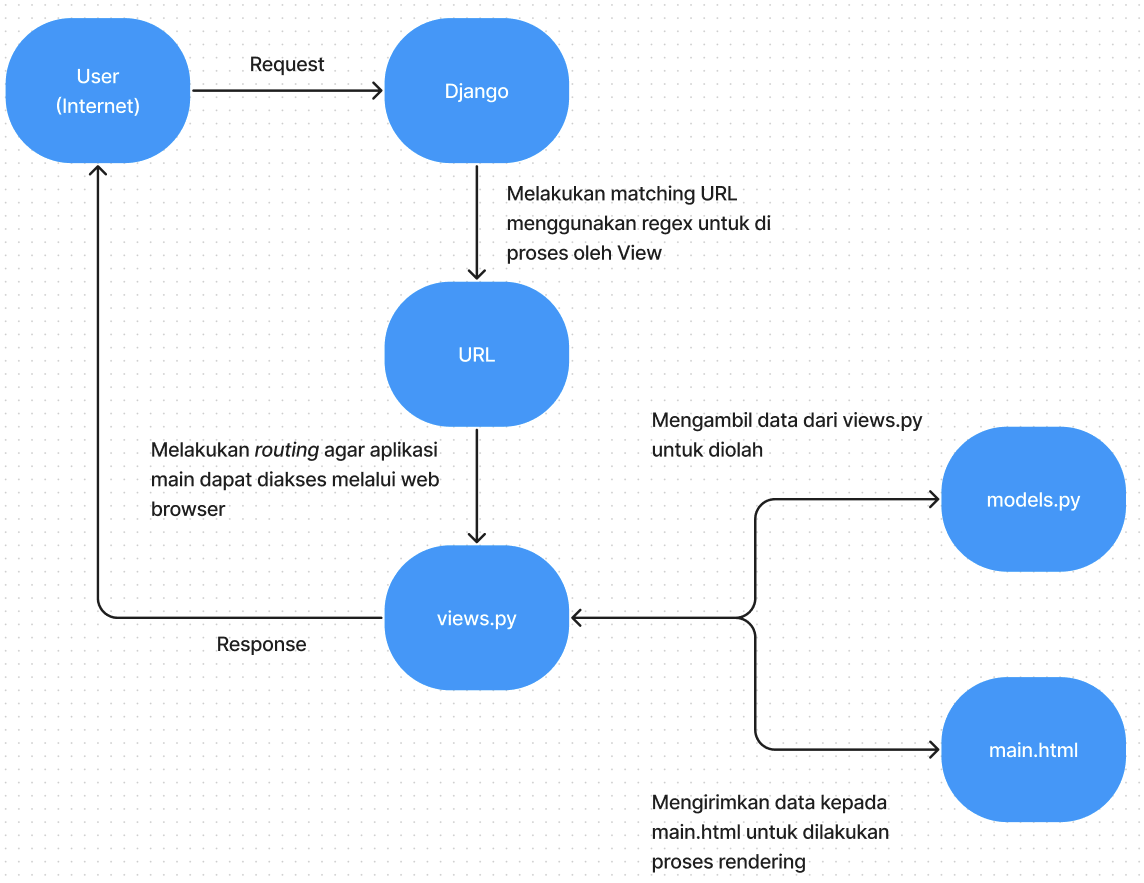
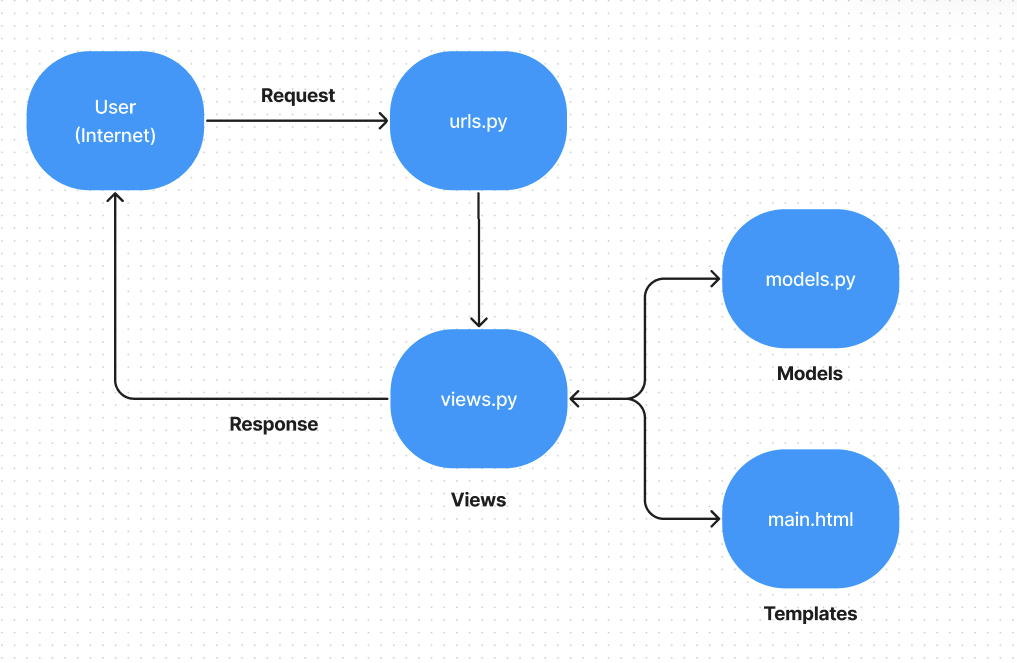
Menambahkan testing yakni menguji kevalidan ddatatypes dari atributes pada models, merevisi jawaban pada README, serta merevisi main.html

Changed region(s): [[0.0, 0.0, 1.0, 0.9955]]

diff --git a/main/templates/main.html b/main/templates/main.html
@@ -1,5 +1,8 @@
 <h1 style="text-align: center; font-family:Verdana">Welcome to {{app}}!</h1>
-<h2 style="text-align: center; font-family:monospace; font-style: italic;">"Your Digital Inventory Maestro!"</h2>
 
-<p style ="font-family: Verdana;">Name: {{name}}</p> <!-- Ubahlah sesuai dengan nama kamu -->
-<p style ="font-family: Verdana;">Class: {{class}}</p> <!-- Ubahlah sesuai dengan kelas kamu -->
+<center><img src=images/lontong.png alt="An image of a lontong" class="center" style="width:200px;height:200px;"></center>
+
+<h2 style="text-align: center; font-family:monospace; font-style: italic; color:lightslategray;">"Your Digital Inventory Maestro!"</h2>
+
+<p style ="font-family: Verdana;">Name: {{name}}</p>
+<p style ="font-family: Verdana;">Class: {{class}}</p>

diff --git a/main/tests.py b/main/tests.py
@@ -1,7 +1,8 @@
-from django.test import TestCase
-
 # Create your tests here.
 from django.test import TestCase, Client
+from main.models import Item
+from datetime import datetime
+
 
 class mainTest(TestCase):
     def test_main_url_is_exist(self):
@@ -11,3 +12,28 @@ class mainTest(TestCase):
     def test_main_using_main_template(self):
         response = Client().get('/main/')
         self.assertTemplateUsed(response, 'main.html')
+
+class ItemTestCase(TestCase):
+    def setUp(self) -> None:
+        Item.objects.create(
+            name = "Galon Aqua", 
+            amount = 5, 
+            description = "Sebuah galon aqua",
+            category = "Minuman",
+            )
+        
+        Item.objects.create(
+            name = "Mangkok", 
+            amount = 10, 
+            description = "Mangkok dengan gambar ayam",
+            category = "Alat makan",
+            )
+        
+    def test_item(self):
+        items = Item.objects.all()
+        for item in items:
+            self.assertIsInstance(getattr(item, 'name'), str)
+            self.assertIsInstance(getattr(item, 'amount'), int)
+            self.assertIsInstance(getattr(item, 'description'), str)
+            self.assertIsInstance(getattr(item, 'category'), str)
+            self.assertIsInstance(getattr(item, 'date_added'), type(datetime.now()))

diff --git a/main/migrations/0002_item_delete_product.py b/main/migrations/0002_item_delete_product.py
@@ -1,0 +1,27 @@
+# Generated by Django 4.2.5 on 2023-09-12 14:03
+
+from django.db import migrations, models
+
+
+class Migration(migrations.Migration):
+
+    dependencies = [
+        ('main', '0001_initial'),
+    ]
+
+    operations = [
+        migrations.CreateModel(
+            name='Item',
+            fields=[
+                ('id', models.BigAutoField(auto_created=True, primary_key=True, serialize=False, verbose_name='ID')),
+                ('name', models.CharField(max_length=255)),
+                ('amount', models.IntegerField()),
+                ('description', models.TextField()),
+                ('category', models.TextField()),
+                ('date_added', models.DateField(auto_now_add=True)),
+            ],
+        ),
+        migrations.DeleteModel(
+            name='Product',
+        ),
+    ]

diff --git a/main/models.py b/main/models.py
@@ -1,11 +1,9 @@
-from django.db import models
-
 # Create your models here.
 from django.db import models
 
 class Item(models.Model):
-    name = models.CharField(max_length=255)
-    amount = models.IntegerField()
-    description = models.TextField()
-    category = models.TextField()
-    date_added = models.DateField(auto_now_add=True)
+    name = models.CharField(max_length=255, name='name')
+    amount = models.IntegerField(name='amount')
+    description = models.TextField(name='description')
+    category = models.TextField (name='category')
+    date_added = models.DateTimeField(auto_now_add=True, name='date_added')

diff --git a/main/migrations/0003_alter_item_date_added.py b/main/migrations/0003_alter_item_date_added.py
@@ -1,0 +1,18 @@
+# Generated by Django 4.2.5 on 2023-09-12 14:40
+
+from django.db import migrations, models
+
+
+class Migration(migrations.Migration):
+
+    dependencies = [
+        ('main', '0002_item_delete_product'),
+    ]
+
+    operations = [
+        migrations.AlterField(
+            model_name='item',
+            name='date_added',
+            field=models.DateTimeField(auto_now_add=True),
+        ),
+    ]

diff --git a/README.md b/README.md
@@ -23,6 +23,10 @@ Jawab :
 
 <img src="/images/bagan.png">
 
+Penjelasan :
+
+Asumsikan ada client yang melakukan suatu aktivitas pada situs berbasis Django, maka browser akan mengirimkan HTTP Request kepada server situs tersebut dan akan dihandle oleh `urls.py` untuk mencari pattern url yang diinginkan client. Kemudian, framework Django akan menggunakan `views.py` untuk melakukan pengolahan dan operasi logika pada data yang terdapat pada `models.py`. Setelah pengolahan data selesai, maka `views.py` akan mengirimkan file `html` yang terdapat pada `templates` kepada client. Setelah itu browser client akan melakukan proses rendering file `html` yang merupakan HTTP Response.
+ 
 ### 3. Jelaskan mengapa kita menggunakan virtual environment? Apakah kita tetap dapat membuat aplikasi web berbasis Django tanpa menggunakan virtual environment?
 Jawab :
 
